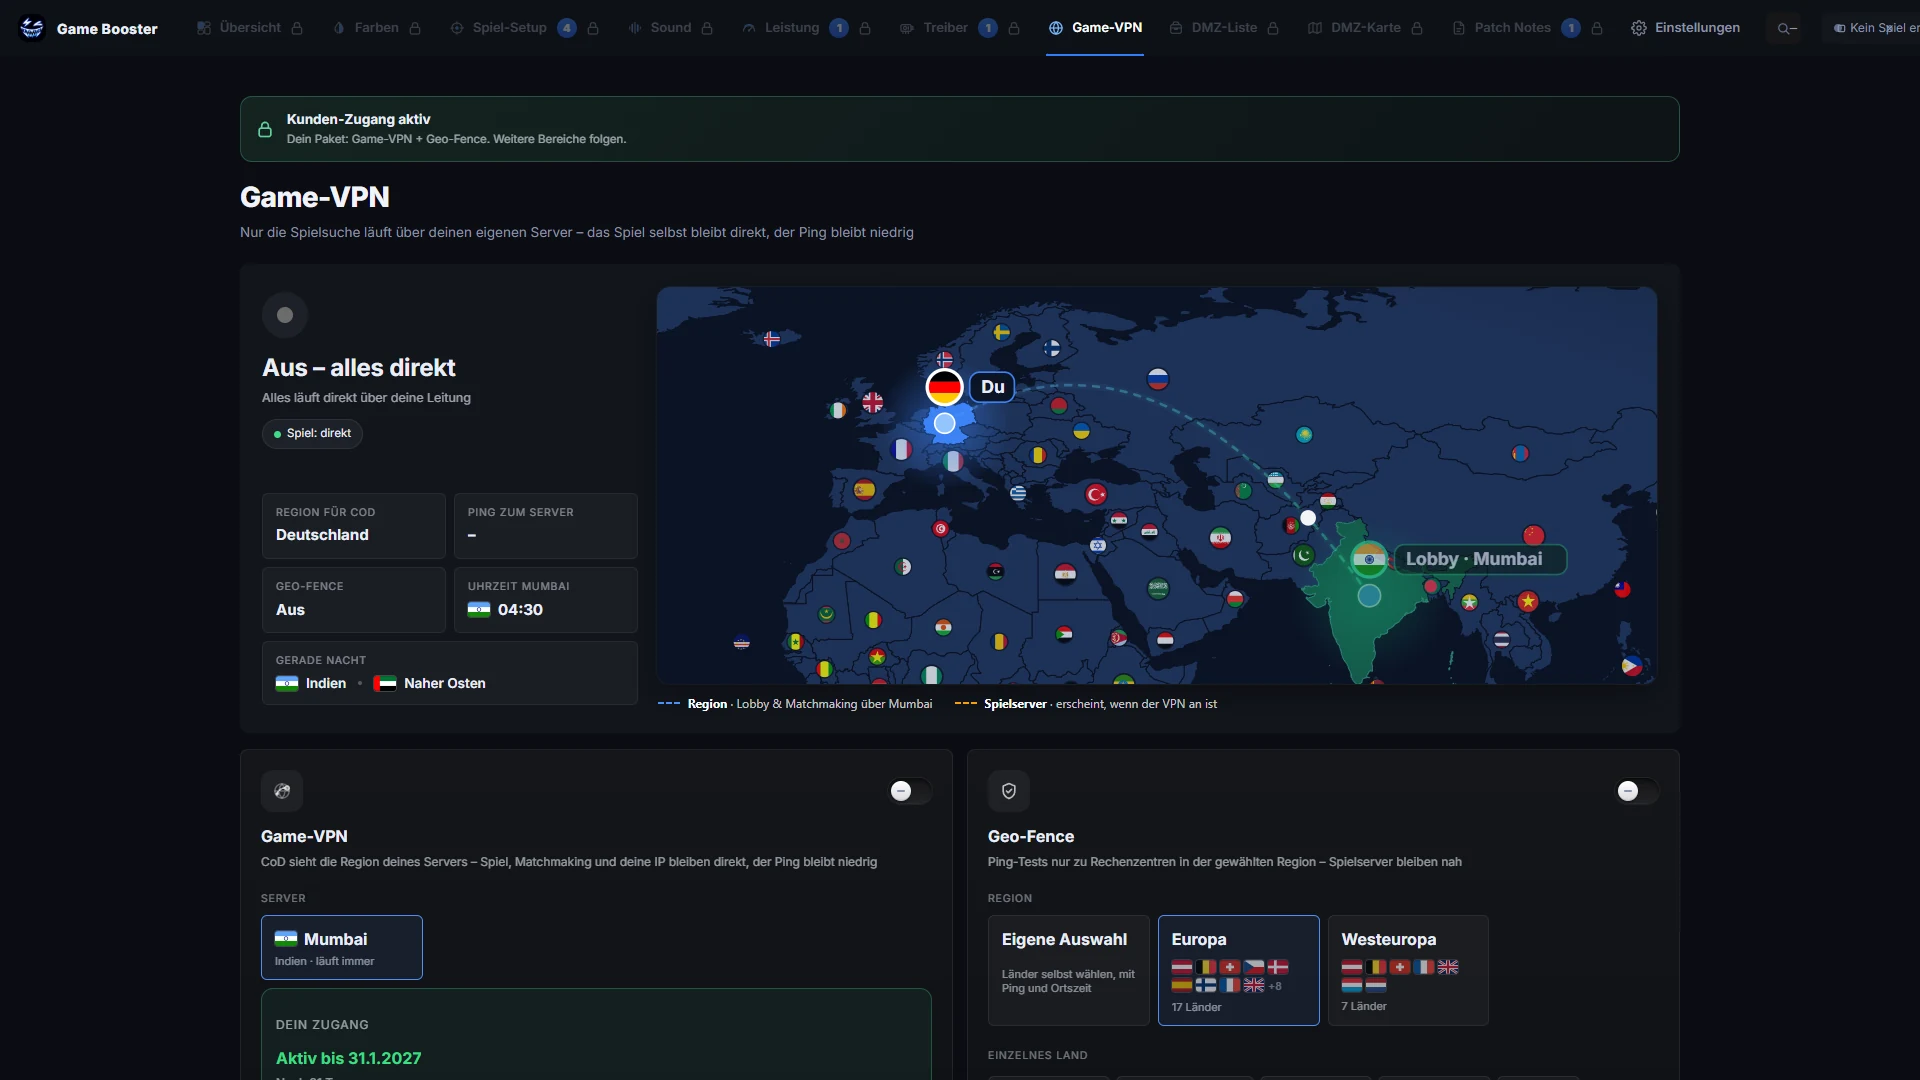
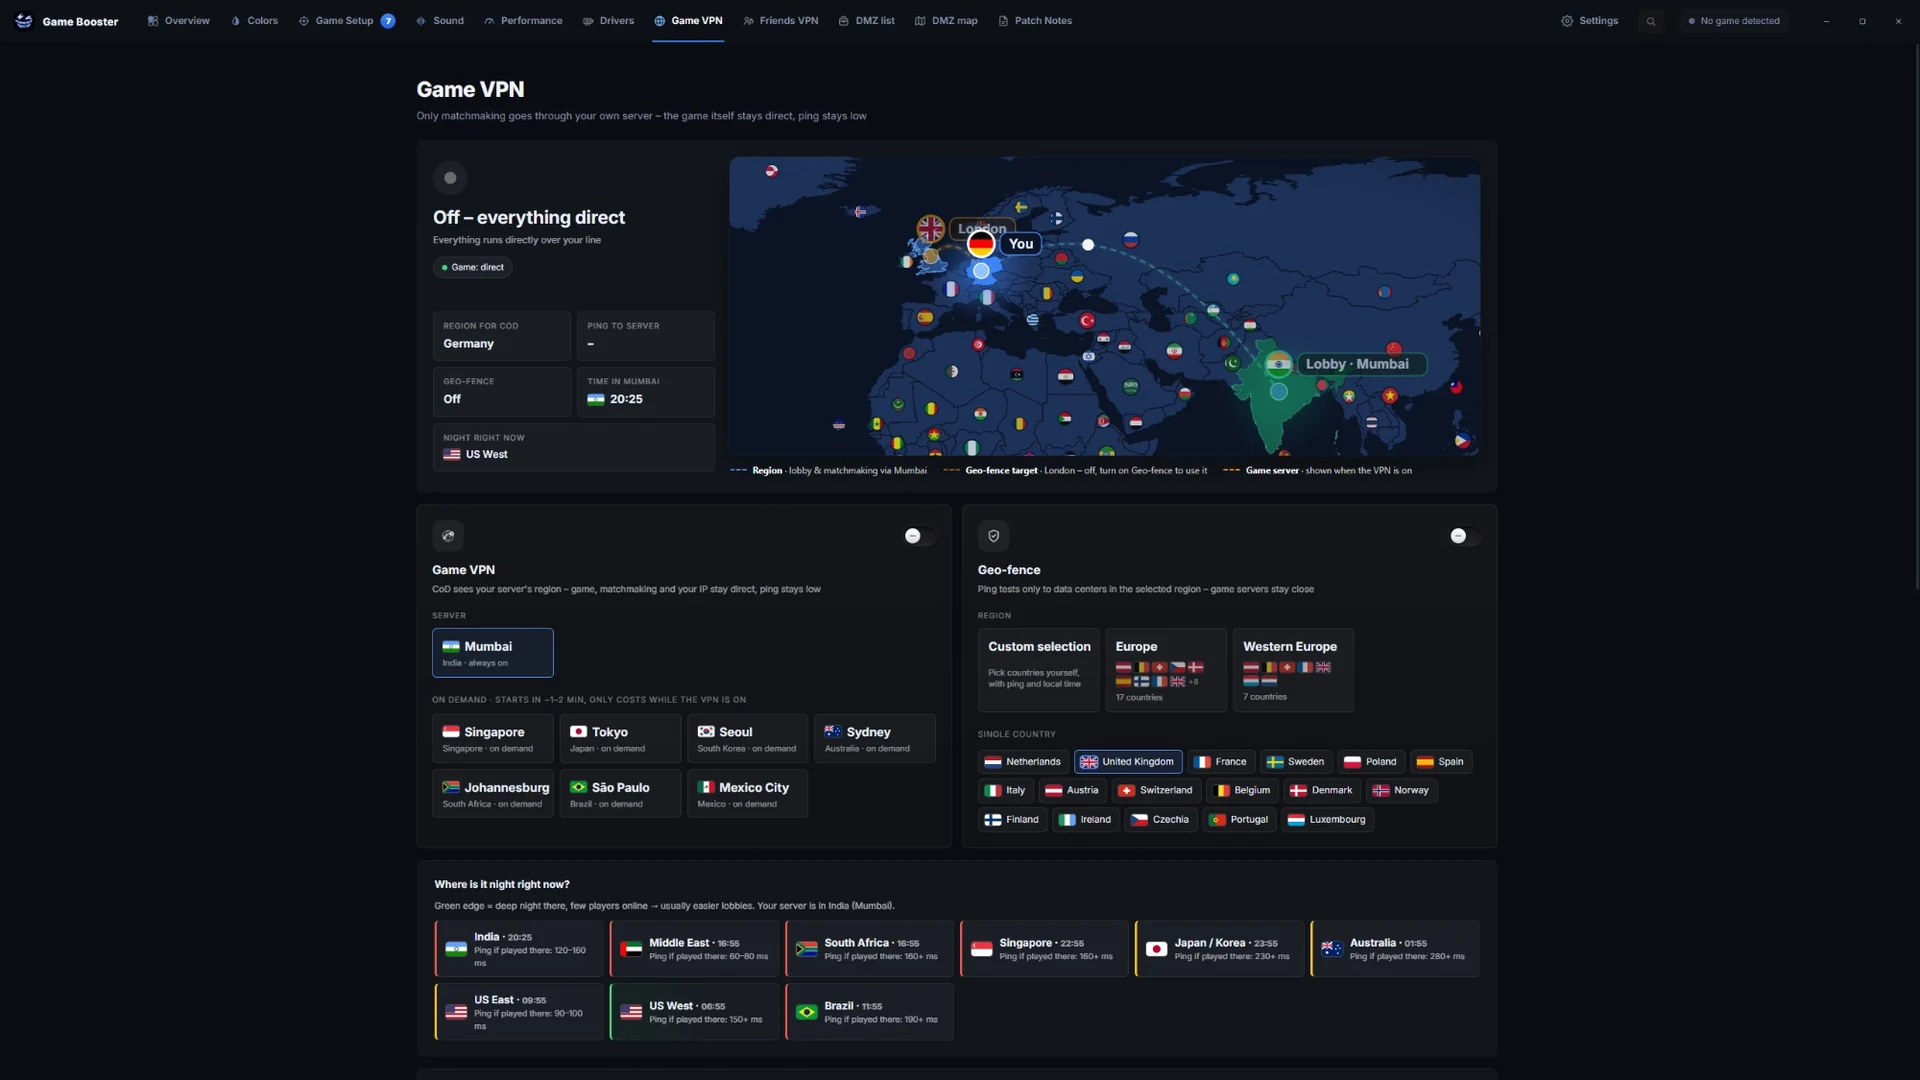
Webseite: Neuer Game-VPN-Screenshot im Einblick

diff --git a/einblick.html b/einblick.html
@@ -77,7 +77,7 @@ body{overflow-x:hidden}
   <p>Ein Blick in deinen Kunden-Zugang – und das Ganze kurz im Video.</p>
 </div>
 <main>
-  <div class="stage"><div class="win"><div class="bar"><i></i><i></i><i></i><span>Game Booster – Kunden-Zugang</span></div><img src="img/app-vpn.webp?v=3" alt="Game-VPN-Tab der Game-Booster-App im Kunden-Zugang" width="1920" height="1080"></div></div>
+  <div class="stage"><div class="win"><div class="bar"><i></i><i></i><i></i><span>Game Booster – Kunden-Zugang</span></div><img src="img/app-vpn.webp?v=4" alt="Game-VPN-Tab der Game-Booster-App im Kunden-Zugang" width="1920" height="1080"></div></div>
   <div class="feat3">
     <div class="fc"><span class="ic"><svg viewBox="0 0 24 24" fill="none" stroke="currentColor" stroke-width="2" stroke-linecap="round" stroke-linejoin="round"><circle cx="12" cy="12" r="9"/><path d="M3 12h18M12 3c2.5 2.6 3.8 5.6 3.8 9s-1.3 6.4-3.8 9c-2.5-2.6-3.8-5.6-3.8-9S9.5 5.6 12 3z"/></svg></span><h4>Game-VPN über Mumbai</h4><p>Nur die Spielsuche läuft über den Server – das Spiel selbst bleibt direkt, dein Ping bleibt niedrig.</p></div>
     <div class="fc"><span class="ic"><svg viewBox="0 0 24 24" fill="none" stroke="currentColor" stroke-width="2" stroke-linecap="round" stroke-linejoin="round"><path d="M12 21s-7-6.2-7-11.5a7 7 0 0 1 14 0C19 14.8 12 21 12 21z"/><circle cx="12" cy="9.5" r="2.5"/></svg></span><h4>Karte mit Spielserver</h4><p>Du siehst live, wo dein Match wirklich läuft – und ob Region und Geo-Fence greifen.</p></div>
